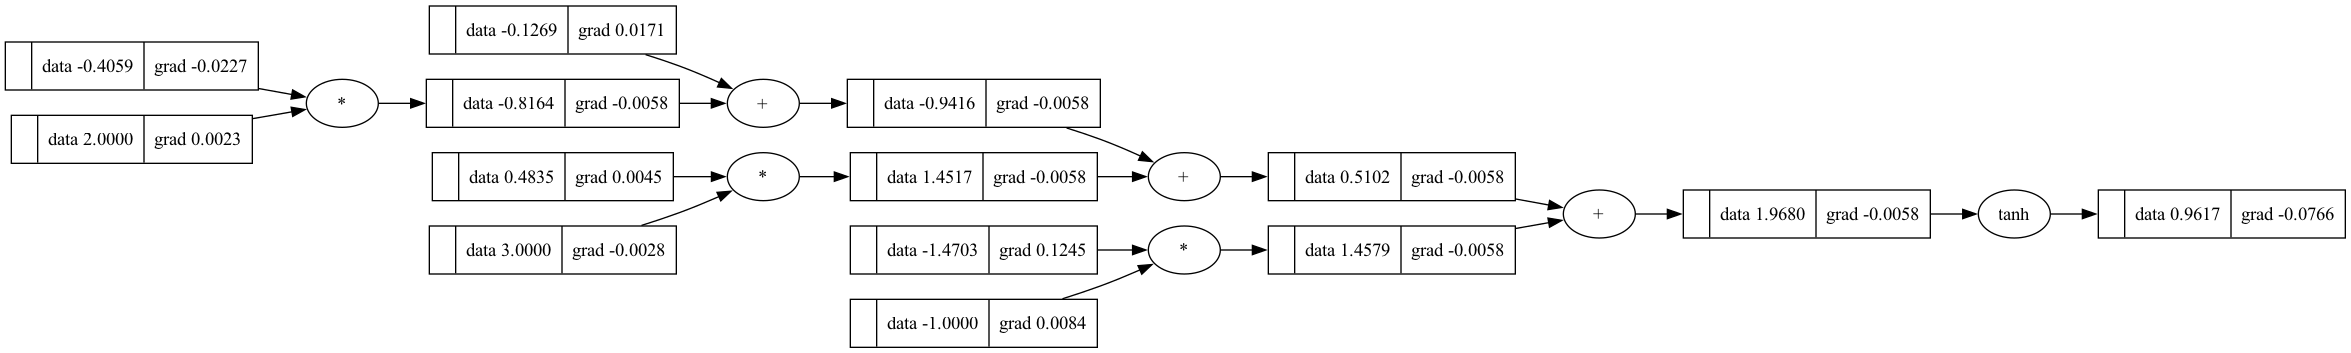
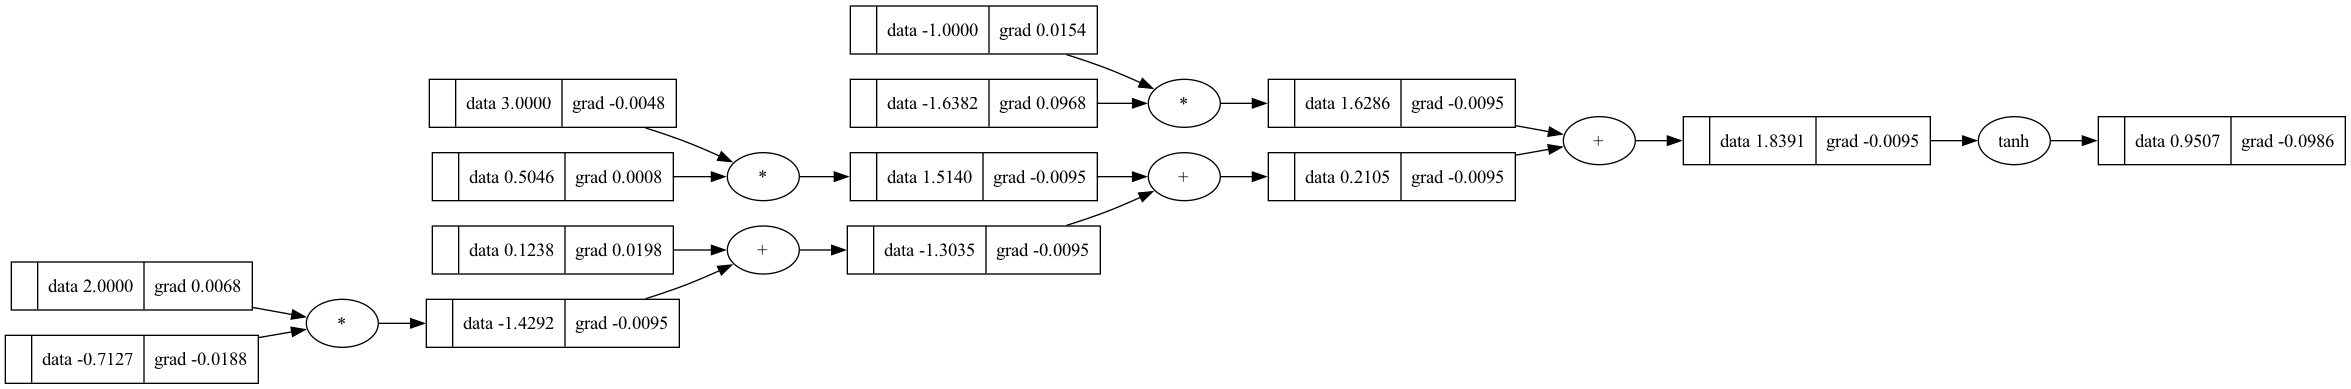
added optimizers to nanograd

diff --git a/examples/example2.py b/examples/example2.py
@@ -1,0 +1,35 @@
+from nanograd.engine import Value
+from nanograd.nn import MLP,Layer,Neuron
+from nanograd.graph import draw_dot,save_graph
+from nanograd.optim import SGD
+
+xs = [
+    [2.0, 3.0, -1.0],
+    [3.0, -1.0, 0.5],
+    [0.5, 1.0, 1.0],
+    [1.0, 1.0, -1.0]
+]
+
+ys = [1.0, -1.0, -1.0, 1.0]
+
+model = MLP(3,[4,4,1])
+
+optim = SGD(model.params(),lr=0.01)
+
+epochs = 30
+for epoch in range(epochs):
+    total_loss = 0.0
+    for i in range(len(xs)):  # Loop through each training example
+        x_sample = xs[i]
+        y_sample = ys[i]
+
+        y_pred = model(x_sample)  # Forward pass
+        loss = (y_pred - y_sample) ** 2  # Loss function (MSE)
+
+        optim.zero_grad()  # Reset gradients
+        loss.backward()  # Backpropagation
+        optim.step()  # Update parameters
+
+        total_loss += loss.data  # Accumulate loss for logging
+
+    print(f"Epoch {epoch+1}, Loss: {total_loss / len(xs)}")

diff --git a/nanograd/optim.py b/nanograd/optim.py
@@ -1,0 +1,23 @@
+from .engine import Value
+
+class Optimizer:
+    def __init__(self, params, lr):
+        self.params = params
+        self.lr = lr
+
+    def step(self):
+        raise NotImplementedError
+
+    def zero_grad(self):
+        for param in self.params:
+            param.grad = 0.0
+
+class GD(Optimizer):  # Changed name from BGD to GD (just gradient descent)
+    def step(self):
+        for param in self.params:
+            param.data -= self.lr * param.grad
+
+class SGD(Optimizer):
+    def step(self):
+        for param in self.params:
+            param.data -= self.lr * param.grad  # True SGD is controlled in the training loop
